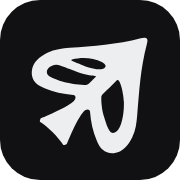
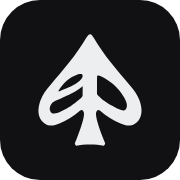
Drop the masthead words and put the spade back upright
The tilt read as a paper plane rather than a card suit, so the mark is
upright again. The home page carries the mark on its own: the top bar is
already saying the name two rows above it.

Changed region(s): [[0.1667, 0.1944, 0.8333, 0.8611]]

diff --git a/client/src/ui/logo.tsx b/client/src/ui/logo.tsx
@@ -22,18 +22,18 @@
    the favicon and the icon PNGs are exports of them; regenerate rather than
    edit, or they drift.
 
-   The mark is tilted 45 degrees to the right. The transform carries the
-   rotation and the viewBox is the ROTATED ink, measured off a raster rather
-   than from getBBox: a rotated path's control points sit outside its curve,
-   so getBBox would leave slack exactly where the crop is meant to have none.
-   Tilted, the mark is all but square (425.58 x 424.87).
+   Upright. A 45 degree tilt was tried and dropped: rotated, the silhouette
+   reads as a paper plane rather than a card suit, and the stem becomes a
+   tail. If it is ever tried again, the viewBox has to be the ROTATED ink
+   measured off a raster, not getBBox, whose control points sit outside a
+   rotated curve and would leave slack exactly where this crop allows none.
 
    Cropped from Main 01 Artboard 1.svg, whose 1920x1080 artboard was almost
    entirely whitespace: the viewBox is the ink exactly, zero slack on all four
    sides, which is what lets a consumer match the mark to text by setting a
    height and trusting the box. */
-export const LOGO_VIEWBOX = '0 0 425.58 424.87';
-export const LOGO_TRANSFORM = 'translate(-686.92 -266.70) rotate(45 934.465 463.43)';
+export const LOGO_VIEWBOX = '0 0 473.01 511.82';
+export const LOGO_TRANSFORM = 'translate(-697.96 -207.52)';
 export const LOGO_PATH = 'M997.38,719.34c0,0,8.85-7.63,5.82-14.31c-2.03-4.46-4.32-9.7-7.65-18.1c-25.49-64.25-32.46-94.85-33.74-111.89 c-1.1-14.62,9.25-24.82,17.71-17.51c29.54,25.55,61.69,45.51,95.23,59.08c13.6,5.5,27.64,9.99,41.81,9.3 c14.18-0.69,28.06-8.1,38.69-20.7c22.03-26.1,17.38-61.79,7.32-91.43c-10.06-29.64-28.45-52.24-46.52-73.69 c-57.79-68.64-117.7-135.29-165.31-217.17c-1.35-2.33-3.84-6-6.46-9.72c-5.03-7.16-12.65-7.6-18.01-1.05 c-3.14,3.83-6.27,7.59-8.09,10.71c-47.61,81.88-107.52,148.53-165.31,217.17c-18.07,21.46-36.46,44.05-46.52,73.69 c-10.06,29.64-14.71,65.33,7.32,91.43c10.63,12.6,24.52,20.01,38.69,20.7c14.18,0.69,28.21-3.8,41.81-9.3 c33.54-13.56,65.69-33.53,95.23-59.08c8.45-7.31,18.81,2.89,17.71,17.51c-1.28,17.04-8.25,47.64-33.74,111.89 c-3.33,8.39-5.62,13.64-7.64,18.09c-3.04,6.68,5.82,14.32,5.82,14.32 C 905,711.26 964,711.26 997.38,719.34 M790.66,465.25c18.69-32.37,51.34-61.7,86.81-73.36c9.73-3.2,16.18-1.35,16.18-1.35 c2.19,0,11.03,3.31,5.43,15.71c-10.36,22.9-54.73,42.04-55.46,42.42c0,0-40.92,17.87-51.52,21.1c-1.26,0.38-2.49-0.66-2.32-1.97 C789.88,467.03,790.11,466.2,790.66,465.25z M900.84,485.8c-0.01,3.89-1.54,7.61-4.25,10.34c-12.02,12.05-46.64,39.81-70.64,52.97 c-33.73,18.49-56.57,26.91-65.97,20.55c-14.57-9.85-12.69-30.99,1.5-47.52c5.47-6.37,18.48-11.31,26.21-14.37 c11.77-4.66,52.9-23.63,64.12-29.56c15.73-8.3,41.14-25.77,48.22-32.31c0.32-0.3,0.83-0.08,0.84,0.36 C900.94,451.88,900.88,475.23,900.84,485.8z M969.55,486.64c-1.84-2.07-2.86-4.76-2.86-7.57c0.04-13.98,0.2-64.11,0.2-77.5c0-17.7,52.03,15.04,76.92,37.96 c28.8,26.53,80.41,90.9,52.2,115.37c-11.01,9.56-56.46-17.24-62.48-20.19C1004.9,520.65,978.15,496.31,969.55,486.64z';
 export const LOGO_SOLID_PATH = 'M997.38,719.34c0,0,8.85-7.63,5.82-14.31c-2.03-4.46-4.32-9.7-7.65-18.1c-25.49-64.25-32.46-94.85-33.74-111.89 c-1.1-14.62,9.25-24.82,17.71-17.51c29.54,25.55,61.69,45.51,95.23,59.08c13.6,5.5,27.64,9.99,41.81,9.3 c14.18-0.69,28.06-8.1,38.69-20.7c22.03-26.1,17.38-61.79,7.32-91.43c-10.06-29.64-28.45-52.24-46.52-73.69 c-57.79-68.64-117.7-135.29-165.31-217.17c-1.35-2.33-3.84-6-6.46-9.72c-5.03-7.16-12.65-7.6-18.01-1.05 c-3.14,3.83-6.27,7.59-8.09,10.71c-47.61,81.88-107.52,148.53-165.31,217.17c-18.07,21.46-36.46,44.05-46.52,73.69 c-10.06,29.64-14.71,65.33,7.32,91.43c10.63,12.6,24.52,20.01,38.69,20.7c14.18,0.69,28.21-3.8,41.81-9.3 c33.54-13.56,65.69-33.53,95.23-59.08c8.45-7.31,18.81,2.89,17.71,17.51c-1.28,17.04-8.25,47.64-33.74,111.89 c-3.33,8.39-5.62,13.64-7.64,18.09c-3.04,6.68,5.82,14.32,5.82,14.32 C 905,711.26 964,711.26 997.38,719.34';
 

diff --git a/client/src/routes/home.css b/client/src/routes/home.css
@@ -215,36 +215,18 @@
    beats `.page.wide` whichever order the two sheets land in. */
 main.page.home-page { max-width: 1180px; }
 
-/* The masthead. The mark takes currentColor from the block, so it is the
-   theme's primary text in both modes with nothing to override. */
+/* The masthead: the mark alone, so it is sized on its own terms rather than
+   against a line of type. The mark's box is its ink exactly, which is why
+   this is a plain height and not a box that needs padding trimmed off it. */
 .home-brand {
-  display: flex; align-items: center; gap: var(--sp-5);
+  display: flex;
   color: var(--text-primary);
-  padding-block: var(--sp-2) var(--sp-3);
+  padding-block: var(--sp-2) var(--sp-4);
 }
-/* Matched to the text's INK, not its boxes. The two line boxes come to 60px
-   but the glyphs only fill 52 of it: a line box carries leading above the cap
-   and below the descender, and the mark's box carries none, because its
-   viewBox is the ink exactly. Sizing the mark to the boxes therefore drew it
-   visibly taller than the words beside it. 52px is that measured ink height,
-   and the text's ink is centred in its own box to within a pixel, so centring
-   the row lands the two on the same top and the same bottom. */
-.home-brand-mark {
-  flex: none;
-  height: 52px;
-  width: auto;
-}
-.home-brand-text { display: flex; flex-direction: column; gap: var(--sp-1); min-width: 0; }
-.home-brand-name {
-  font-size: 34px; line-height: var(--lh-5); font-weight: 600; letter-spacing: -0.02em;
-}
-.home-brand-line { color: var(--text-secondary); line-height: var(--lh-3); }
+.home-brand-mark { flex: none; height: 72px; width: auto; }
 
 @media (max-width: 560px) {
-  .home-brand { gap: var(--sp-4); }
-  .home-brand-name { font-size: 26px; line-height: var(--lh-4); }
-  /* Same rule as above, against the smaller name. */
-  .home-brand-mark { height: 46px; }
+  .home-brand-mark { height: 56px; }
 }
 
 .player-bar {

diff --git a/client/src/routes/home.tsx b/client/src/routes/home.tsx
@@ -153,15 +153,11 @@ export function Home() {
 
   return (
     <main className="page wide stack home-page">
-      {/* The masthead. Only this page carries the mark at size: everywhere
-          else it rides at text height in the top bar, and a logo repeated
-          large on every screen stops being a landmark. */}
+      {/* The masthead: the mark on its own. Only this page carries it at size,
+          and the name is not set beside it because the top bar is already
+          carrying the name two rows up. */}
       <header className="home-brand">
         <Logo className="home-brand-mark" />
-        <span className="home-brand-text">
-          <span className="home-brand-name">EveryonePoker</span>
-          <span className="home-brand-line">Free ranked poker. No money, no rake, no ads.</span>
-        </span>
       </header>
 
       <PlayerBar me={me} mode={modesFor(mode)[0]} />
